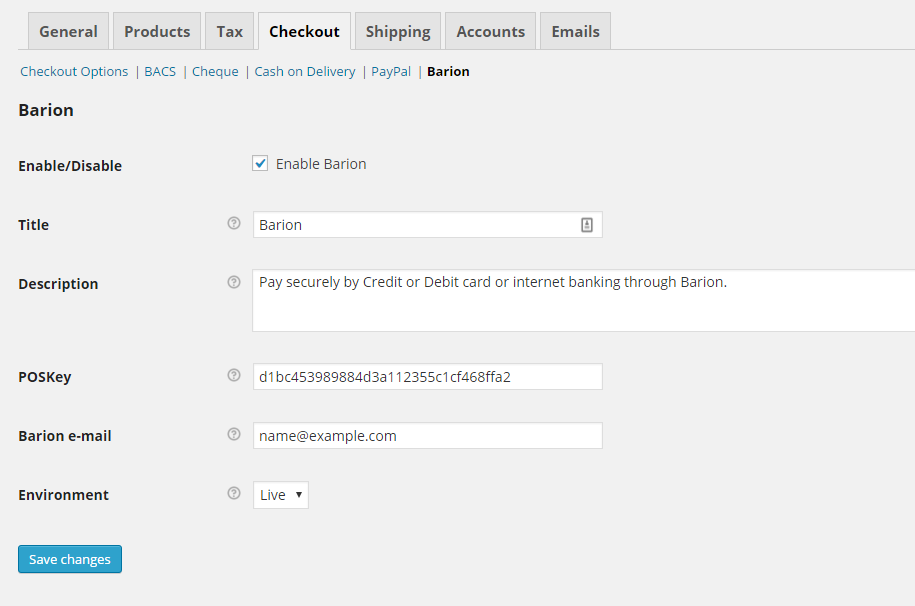
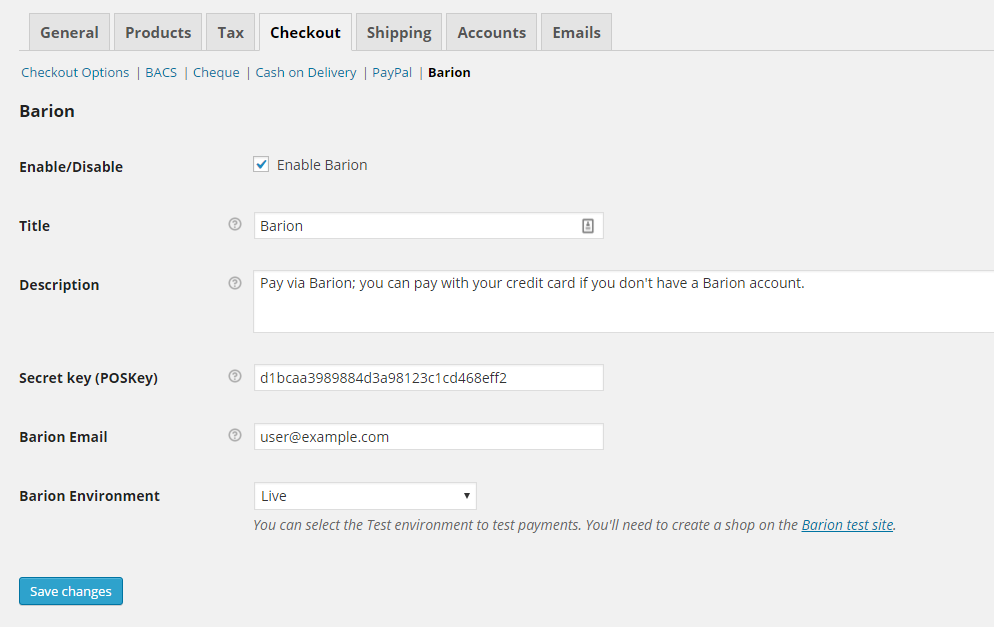
[#7] Refined text to make it clear that the test environment is a separate site.

diff --git a/includes/settings-barion.php b/includes/settings-barion.php
@@ -35,7 +35,7 @@ return array(
         'desc_tip'        => true
     ),
     'payee' => array(
-        'title'           => __('Payee (Barion Email address)', 'woocommerce'),
+        'title'           => __('Barion Email', 'woocommerce'),
         'type'            => 'text',
         'description'     => __('Your Barion email address'),
         'desc_tip'        => true,
@@ -43,12 +43,11 @@ return array(
         'placeholder'     => 'you@youremail.com'
     ),
     'environment' => array(
-        'title'           => __('Environment', 'woocommerce'),
+        'title'           => __('Barion Environment', 'woocommerce'),
         'type'            => 'select',
-        'label'           => __('Barion Environment', 'woocommerce'),
-        'options'         => array('test' => 'Test', 'live' => 'Live'),
-        'default'         => 'test',
-        'description'     => __('The Barion environment to connect to. This can be the test system, or the production environment.'),
-        'desc_tip'        => true
+        'options'         => array('test' => 'Test (https://test.barion.com/)', 'live' => 'Live'),
+        'default'         => 'live',
+        'description'     => sprintf(__('You can select the Test environment to test payments. You\'ll need to create a shop on the <a href="%s" target="_blank">Barion test site</a>.', 'woocommerce'), 'https://test.barion.com/'),
+        'desc_tip'        => false
     )
 );

diff --git a/README.md b/README.md
@@ -14,12 +14,13 @@ This plugin allows your customers to pay via [Barion Smart Gateway](https://www.
 ## Installation
 
 1. Navigate to the [latest release](https://github.com/szelpe/woocommerce-barion/releases/latest) and download `woocommerce-barion.zip`
-1. Extract and upload 'woocommerce-barion' to the '/wp-content/plugins/' directory
-1. Activate the plugin through the 'Plugins' menu in WordPress
+1. Extract and upload "woocommerce-barion" to the "/wp-content/plugins/" directory
+1. Activate the plugin through the "Plugins" menu in WordPress
 1. Click on the menu item "WooCommerce" then select the "Checkout" tab
-1. Click on new submenu item named "Barion"
-1. On this page you should set the POSKey and the Payee e-mail address 
-1. Select the Barion environment and enable the payment method if you're ready to use Barion
+1. Click on the new submenu item named "Barion"
+1. On this page you should set the POSKey of the shop and your Barion email address 
+1. Should you want to use the test envorinment, select it from the Barion Environment dropdown. You'll need to create a shop on the [Barion test page](https://test.barion.com).
+1. Enable the payment method if you're ready to use Barion
 
 ![](checkout-settings.png)
 
